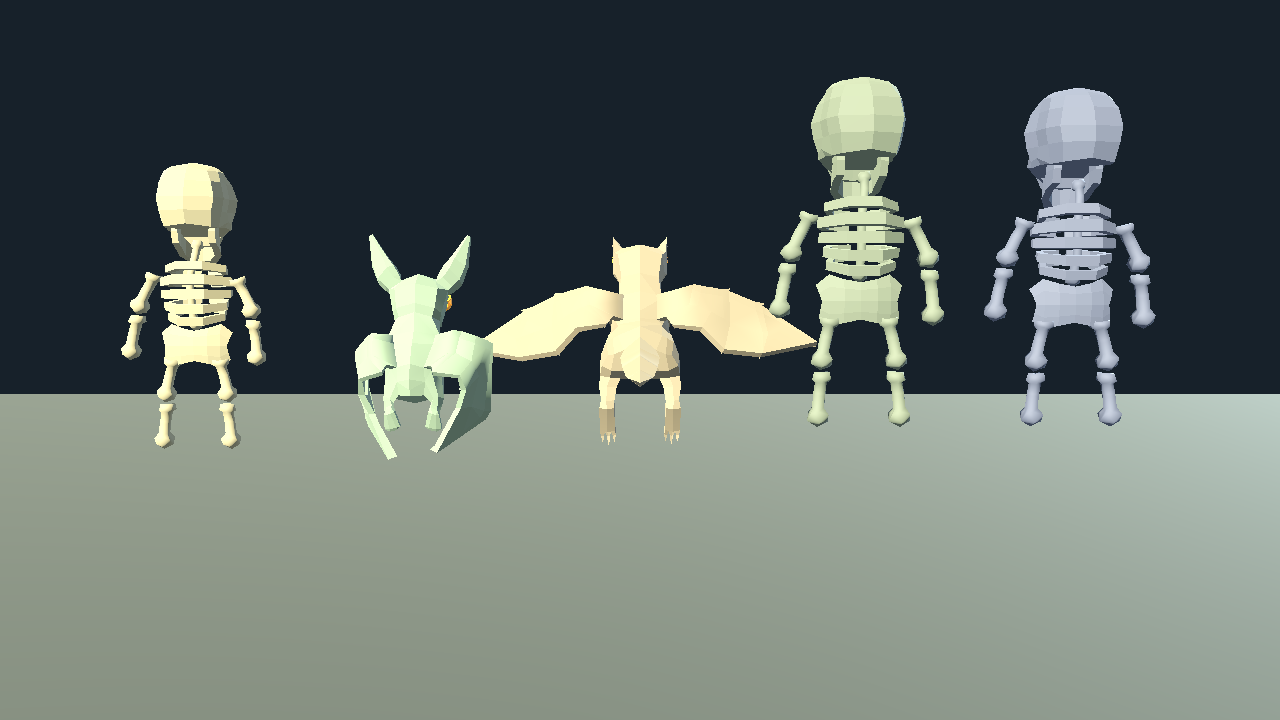
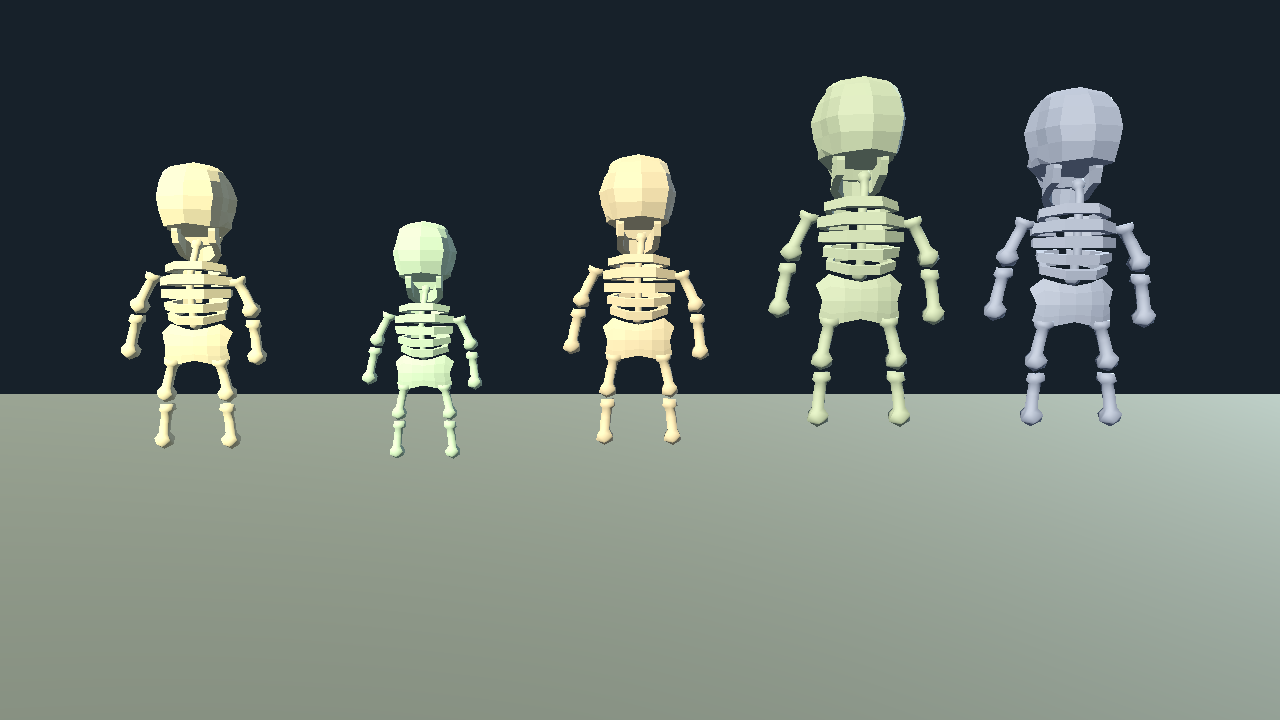
checkpoint: verify monster family mapping

Changed region(s): [[0.25, 0.2139, 0.6562, 0.6417], [0.8125, 0.3361, 0.875, 0.3667], [0.6562, 0.3361, 0.6875, 0.3667]]

diff --git a/outputs/AshenOathTheRoadBetweenCrowns/RECOVERY_004_IMPLEMENTATION_STATUS.md b/outputs/AshenOathTheRoadBetweenCrowns/RECOVERY_004_IMPLEMENTATION_STATUS.md
@@ -638,3 +638,11 @@ Do not sync `.release-gate/AshenOath_QA` into `web/`; it is not the production b
[1 lines of base64/hex data omitted]
 - Remaining blocker: cold browser engine readiness is still above the product target, and the headless Godot run still emits the known shutdown-only ObjectDB/RID diagnostics. The broader visual, campaign, and release gates remain incomplete. The diagnostic inspection helper remains intentionally untracked.
 - Exact next action: after the paused goal is explicitly resumed, choose the next scoped fix; do not rerun this startup/export check unless its source, pack filters, or artifact inputs change. This checkpoint does not authorize push, merge, deployment, or production promotion.
+
+## Latest Atomic Checkpoint - 2026-09-10 (monster family mapping follow-up)
+
+- Current ticket: `MON-001` / `CHAR-RESTORE-001` monster-family mapping follow-up.
+- Completed work: remapped the Wychwood stalker and raider runtime roles from the unrelated bat and dragon sources to the retained validated Skeleton source, and marked both roles as humanoid Ghoulkin-family variants in the visual-upgrade manifest. The enemy runtime now treats those roles as skeleton-family actors, preserving their role-specific scale, tint, posture, attack profile, and existing behavior without introducing a primitive fallback.
+- Latest result: targeted `tools/verify_visual_003.gd` passed and targeted `tools/verify_combat_001.gd` passed under Godot 4.6.3. The refreshed `Development_Gallery/screenshots/CHAR-RESTORE-001_Monster_Families.png` and companion character captures were generated by the focused capture run and passed its screenshot checks. `git diff --check` passed for the changed source files.
+- Remaining blocker: this fixes the incorrect Wychwood source mapping only; monster identity is still `functional_but_incomplete` in `RECOVERY_004_ISSUE_REGISTRY.json` because the current Skeleton family remains a stylized/provisional presentation and the broader boss/monster visual gate has not been completed. The intentionally untracked `tools/_inspect_milestone_c_assets.gd` diagnostic is preserved and excluded from this checkpoint.
+- Exact next action: after the paused goal is explicitly resumed, select a dedicated monster-identity improvement slice and run its affected visual, animation, and gameplay evidence. Do not start that work, export, push, merge, or deploy from this paused checkpoint.
